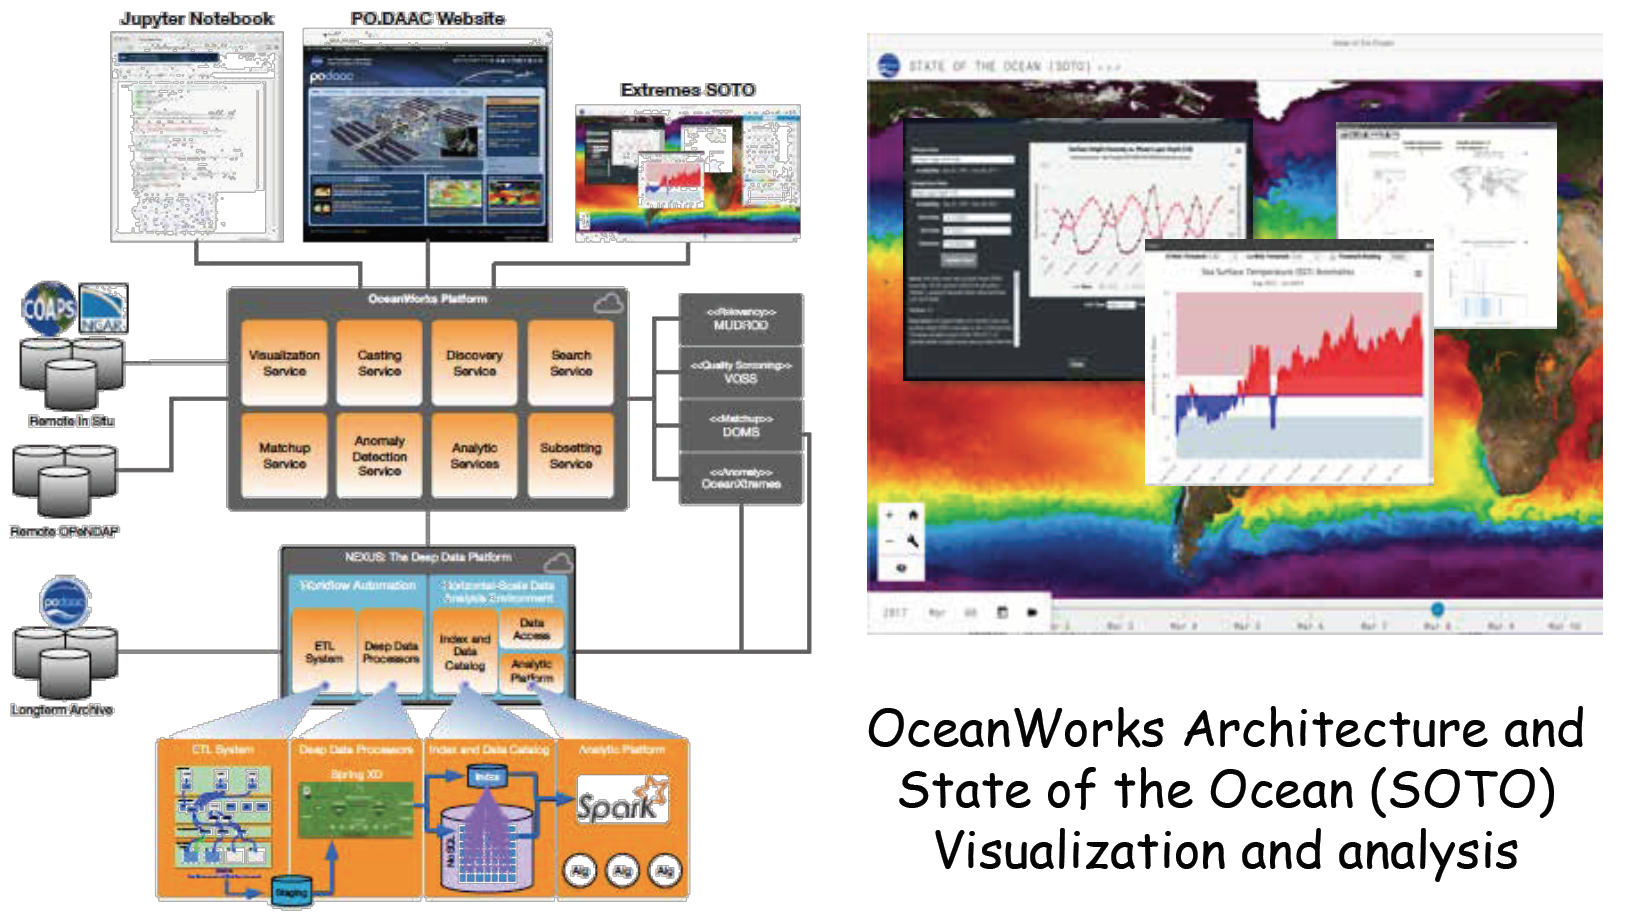
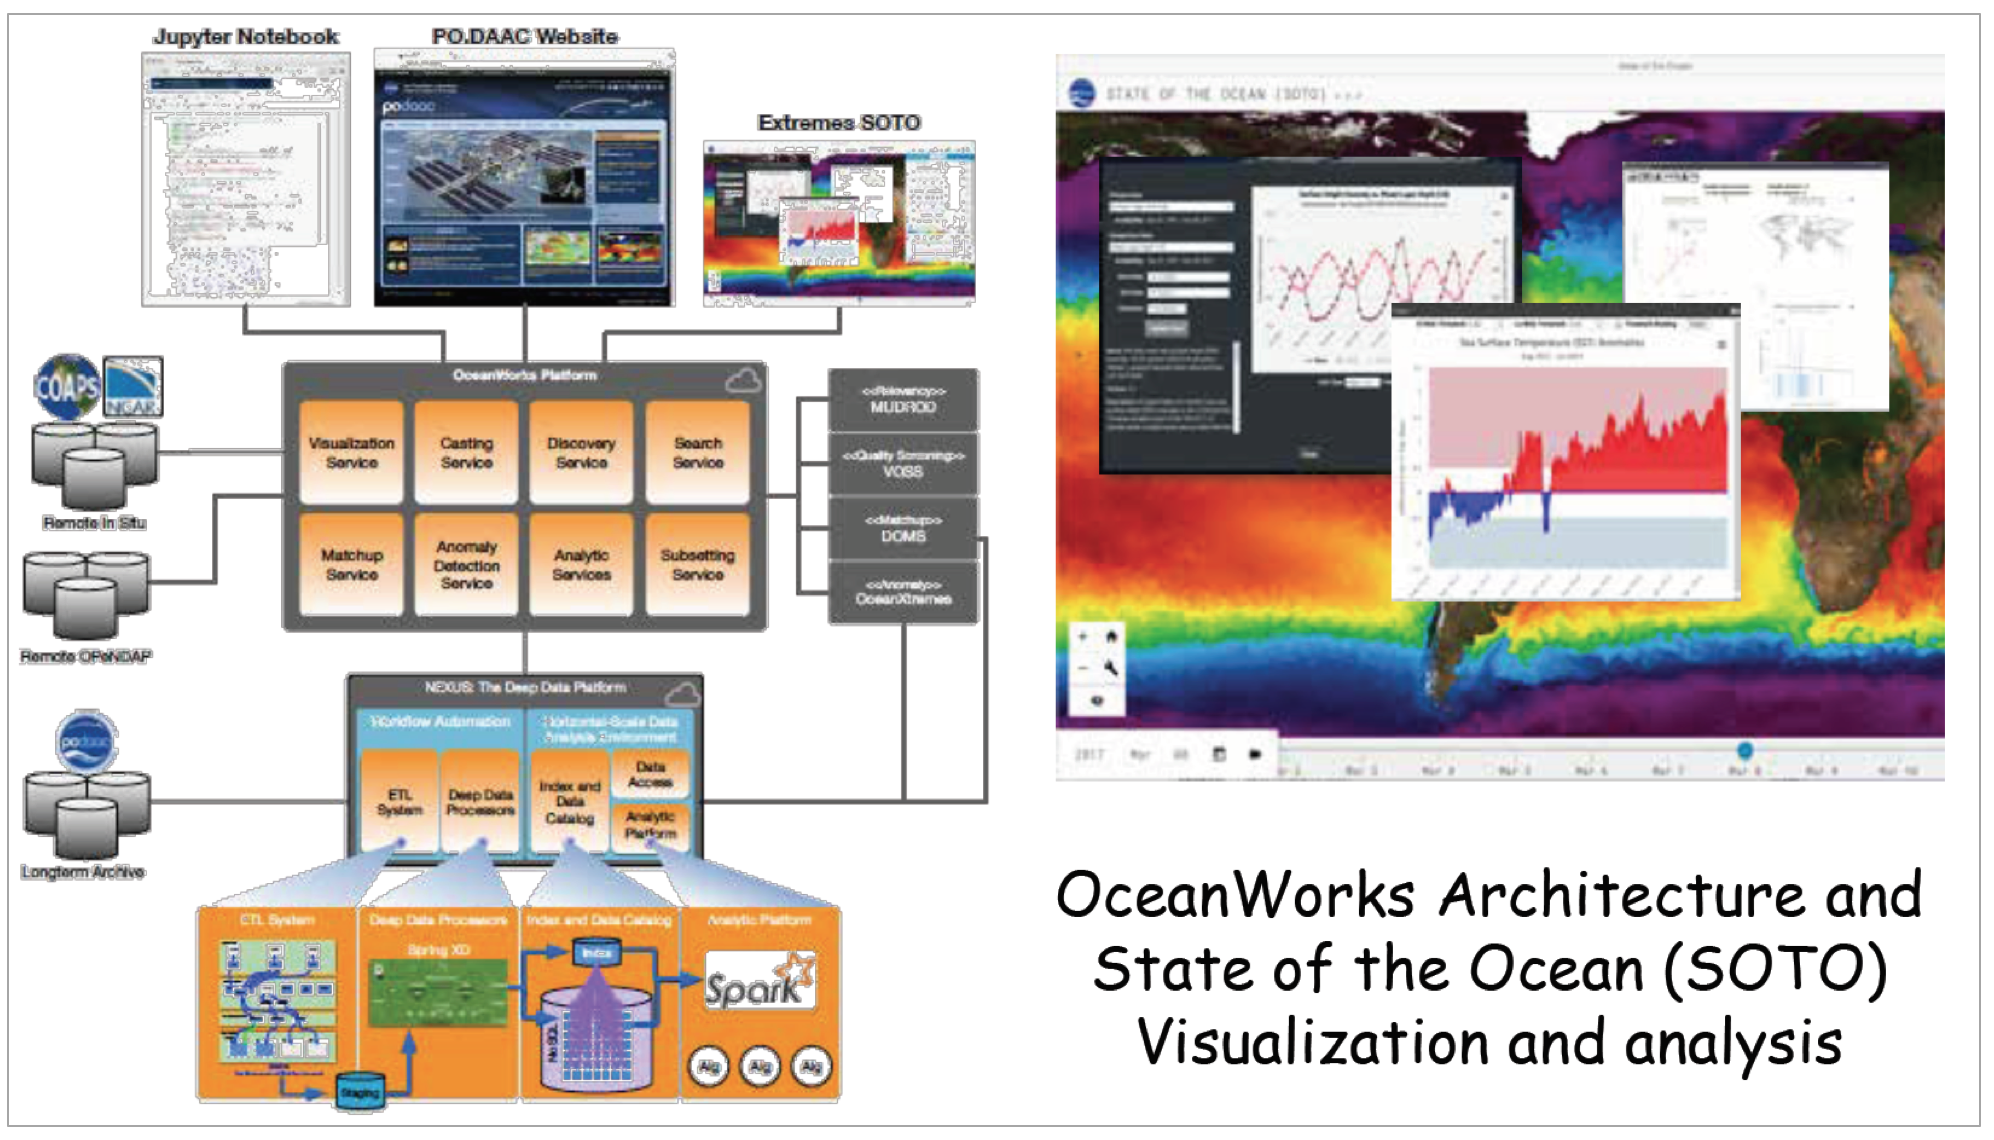
Added pic border

diff --git a/_pages/project.md b/_pages/project.md
@@ -7,13 +7,13 @@ author_profile: true
 In typical investigations, oceanographers follow a traditional workflow for using datasets: search, evaluate, download, and apply tools and algorithms to look for trends. While this workflow has been working very well historically for the oceanographic community, it cannot scale if the research involves massive amount of data. SDAP establishes an integrated data analytic center for Big Science problems. It focuses on technology integration, advancement and maturity. SDAP brings together a number of big data technologies including a NASA funded OceanXtremes (Anomaly detection and ocean science), NEXUS (Deep data analytic platform), DOMS (Distributed in-situ to satellite matchup), MUDROD (Search relevancy and discovery) and VQSS (Virtualized Quality Screening Service) under a single umbrella.
 * Role: Lead developer of MUDROD, Apache committer
 * [Website](https://wiki.apache.org/incubator/SDAPProposal). [Source code](https://github.com/apache/incubator-sdap-mudrod)<br />
-<kbd><img src='/images/oceanworks.png' width="500" height="300"></kbd>
+<img src='/images/oceanworks.png' width="500" height="300">
 
 ## Mining and Utilizing Dataset Relevancy from Data Access logs, Metadata and User Metrics to Improve Data Discovery (MUDROD) (NASA AIST funded)
 MUDROD is focused on mining oceanic knowledge from the [PO.DAAC](https://podaac.jpl.nasa.gov/) user log files to improve the end user data discovery experience at PO.DAAC. There are three steps in the research: a) the oceanographic semantics were extracted from three resources of SWEET, GCMD ontology, and the keywords used by end users for searching PO.DAAC datasets, b) mining the linkage among different vocabularies based on user data discvoery sessions, and c) build the linkage among vocabularies based on a comprehensive approach by considering domain de facto standard, e.g., SWEET and GCMD, and the knowledge mined from the log files. The semantics is used to improve data discovery for ranking results, navigating among vocabularies, and recommending data based on user searchers.
 * Role: Lead developer and researcher
 * [Source code](https://github.com/Yongyao/mudrod), [Demo](https://mudrod.jpl.nasa.gov/#/)<br />
-</kbd><img src='/images/mudrod.png' width="500" height="300"></kbd>
+<img src='/images/mudrod.png' width="500" height="300">
 
 ## A Knowledge Gateway for Smart Management and Discovery of Planetary Defense (PD) Information (NASA funded)
 PD aims at developing a planetary defense knowledge discovery engine to better assist the development and integration of a near Earth object (NEO) responding system. This knowledge discovery engine will serve as a cyberinfrastructure building block for conglomerate patches of existing knowledge (e.g. data, service, and model). By integrating, extracting, analyzing, and providing knowledge dispersed throughout different organizations and scientists, this planetary defense web portal is expected to advance discovery, innovation and education across government agencies and scientific communities. 
